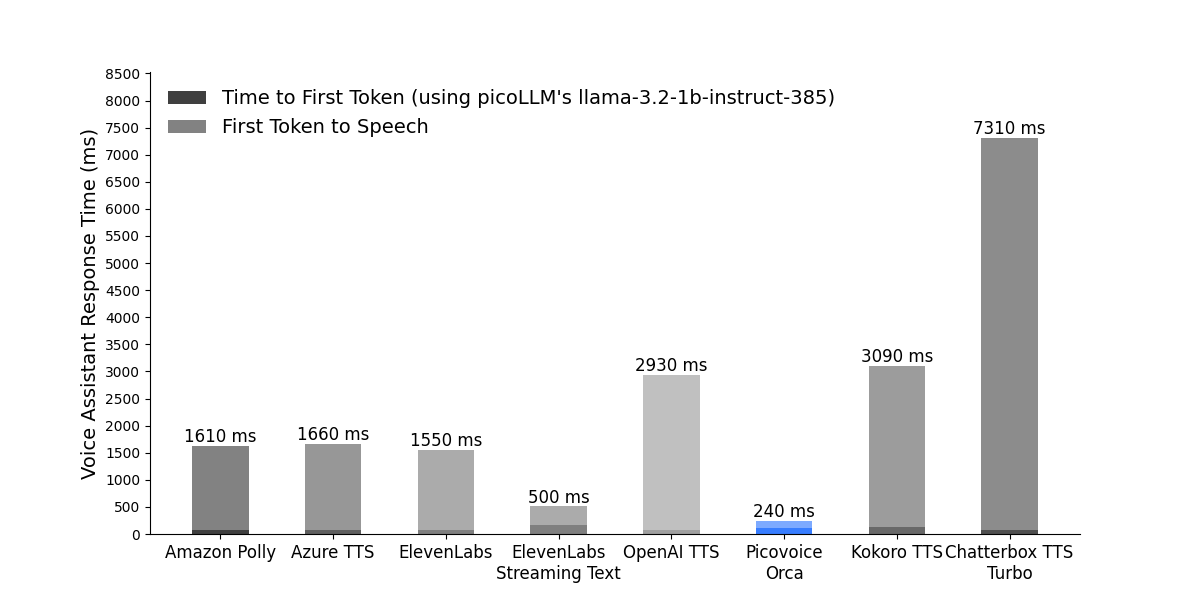
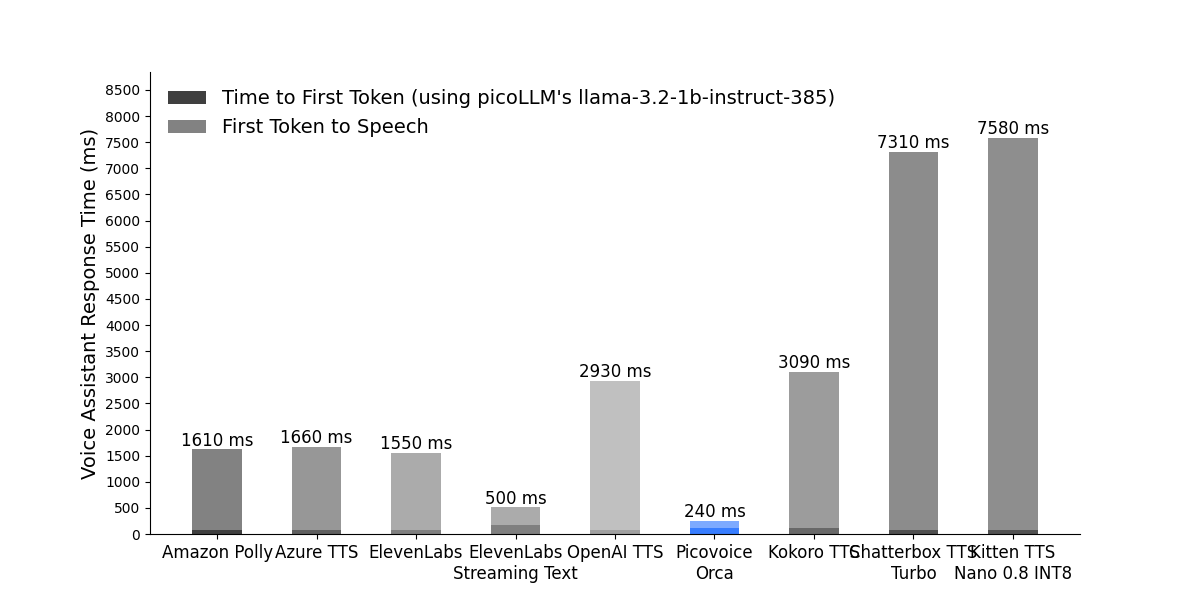
Added Kitten-TTS to latency benchmark.

Changed region(s): [[0.1233, 0.18, 0.8942, 0.99], [0.0925, 0.12, 0.1233, 0.81], [0.0925, 0.84, 0.1233, 0.87]]

diff --git a/benchmark.py b/benchmark.py
@@ -262,26 +262,31 @@ async def _run_benchmark_iteration(
 
     timer.wait_for_first_audio()
 
-    timing_result = TimingResult(
-        voice_assistant_response_time=timer.voice_assistant_response_time(),
-        time_to_first_token=timer.time_to_first_token(),
-        first_token_to_speech=timer.first_token_to_speech(),
-        tts_process_seconds=timer.tts_process_seconds(),
-        num_words=len(llm.last_response.split()),
-        num_tokens_per_second=timer.num_tokens_per_second())
-    stats.accumulate(timing_result=timing_result)
+    if not timer.skip_this_result:
+        timing_result = TimingResult(
+            voice_assistant_response_time=timer.voice_assistant_response_time(),
+            time_to_first_token=timer.time_to_first_token(),
+            first_token_to_speech=timer.first_token_to_speech(),
+            tts_process_seconds=timer.tts_process_seconds(),
+            num_words=len(llm.last_response.split()),
+            num_tokens_per_second=timer.num_tokens_per_second())
+        stats.accumulate(timing_result=timing_result)
 
-    if verbose:
-        print(f"Question: {sentence}")
-        print(f"LLM response: {llm.last_response}")
-        print(f"Voice Assistant Response Time: {timing_result.voice_assistant_response_time:.2f} s")
-        print(f"Time to First Token: {timing_result.time_to_first_token:.2f} s")
-        print(f"First Token to Speech: {timing_result.first_token_to_speech:.2f} s")
-        timer.wait_for_last_audio()
-        audio_path = os.path.join(results_folder, f"audio_{counter}.wav")
-        synthesizer.save_and_reset_last_audio(audio_path)
-        print(f"Saved audio to `{audio_path}`")
-        print()
+        if verbose:
+            print(f"Question: {sentence}")
+            print(f"LLM response: {llm.last_response}")
+            print(f"Voice Assistant Response Time: {timing_result.voice_assistant_response_time:.2f} s")
+            print(f"Time to First Token: {timing_result.time_to_first_token:.2f} s")
+            print(f"First Token to Speech: {timing_result.first_token_to_speech:.2f} s")
+            timer.wait_for_last_audio()
+            audio_path = os.path.join(results_folder, f"audio_{counter}.wav")
+            synthesizer.save_and_reset_last_audio(audio_path)
+            print(f"Saved audio to `{audio_path}`")
+            print()
+    else:
+        if verbose:
+            print("Error occurred for this sentence. Skip the result.")
+
 
 
 async def main(args: argparse.Namespace) -> None:

diff --git a/tts/_tts.py b/tts/_tts.py
@@ -35,6 +35,7 @@ class Synthesizers(Enum):
     PICOVOICE_ORCA = "picovoice_orca"
     KOKORO_TTS = "kokoro_tts"
     CHATTERBOX_TTS_TURBO = "chatterbox_tts_turbo"  # TODO (Ted): Ask Ali if we should do Chatterbox-TTS or Chatterbox-TTS-Turbo.
+    KITTEN_TTS = "kitten_tts"
 
 
 class Synthesizer:
@@ -93,6 +94,7 @@ class Synthesizer:
             Synthesizers.PICOVOICE_ORCA: PicovoiceOrcaSynthesizer,
             Synthesizers.KOKORO_TTS: KokoroSynthesizer,
             Synthesizers.CHATTERBOX_TTS_TURBO: ChatterboxTurboSynthesizer,
+            Synthesizers.KITTEN_TTS: KittenSynthesizer,
         }
 
         if engine not in subclasses:
@@ -573,6 +575,58 @@ class ChatterboxTurboSynthesizer(Synthesizer):
         self._timer.maybe_log_time_first_audio()
 
         self._audio_sink.add(data=wav)  # TODO (Ted): Check if data=audio is desired.
+
+        self._timer.log_time_last_audio()
+
+    def __str__(self) -> str:
+        return f"{self.NAME}"
+
+
+class KittenSynthesizer(Synthesizer):
+    NAME = "Kitten TTS Nano 0.8 INT8"
+    SAMPLE_RATE = 24000
+    AUDIO_ENCODING = AudioEncodings.INT16  # TODO (Ted): Check this. It's likely wrong.
+    VOICE_ID = "Bella"  # available_voices : ['Bella', 'Jasper', 'Luna', 'Bruno', 'Rosie', 'Hugo', 'Kiki', 'Leo']
+
+    def __init__(
+            self,
+            **kwargs: Any,
+    ) -> None:
+        super().__init__(
+                sample_rate=self.SAMPLE_RATE,
+                audio_encoding=self.AUDIO_ENCODING,
+                **kwargs,
+        )
+
+        from kittentts import KittenTTS
+
+        self._model = KittenTTS("KittenML/kitten-tts-nano-0.8-int8")
+
+    def synthesize(
+            self,
+            text_stream: Generator[
+                str,
+                None,
+                None,
+            ],
+    ):
+        text = self._read_text_stream(text_stream)
+
+        if len(text) >= 400:
+            self._timer.skip_this_result = True
+            print("Text input length reached or exceeded 400! Which is a limit for Kitten-TTS. Skipping this sentence.")
+            return
+
+        self._timer.maybe_log_time_first_synthesis_request()
+
+        audio = self._model.generate(
+                text,
+                voice=self.VOICE_ID,
+        )
+
+        self._timer.maybe_log_time_first_audio()
+
+        self._audio_sink.add(data=audio)  # TODO (Ted): Check if data=audio is desired.
 
         self._timer.log_time_last_audio()
 

diff --git a/tts/_timer.py b/tts/_timer.py
@@ -12,6 +12,7 @@ class Timer:
     _time_last_audio: float = -1.0
 
     _num_tokens: int = 0
+    _skip_this_result: bool = False
 
     @staticmethod
     def _get_time() -> float:
@@ -67,7 +68,7 @@ class Timer:
         return self._num_tokens / (self._time_last_llm_token - self._time_first_llm_token)
 
     def wait_for_first_audio(self) -> None:
-        while self._time_first_audio == -1.0:
+        while self._time_first_audio == -1.0 and not self._skip_this_result:
             time.sleep(0.01)
 
     def wait_for_last_audio(self) -> None:
@@ -83,6 +84,18 @@ class Timer:
         self._time_last_audio = -1.0
 
         self._num_tokens = 0
+        self._skip_this_result = False
+
+    @property
+    def skip_this_result(self) -> bool:
+        return self._skip_this_result
+
+    @skip_this_result.setter
+    def skip_this_result(
+            self,
+            val: bool,
+    ):
+        self._skip_this_result = val
 
 
 __all__ = [

diff --git a/plot_results.py b/plot_results.py
@@ -31,6 +31,7 @@ WHITE = rgb_from_hex("#FFFFFF")
 BLUE = rgb_from_hex("#377DFF")
 COLOR_KOKORO_TTS = rgb_from_hex("#686868")
 COLOR_CHATTERBOX_TTS_TURBO = rgb_from_hex("#4F4F4F")
+COLOR_KITTEN_TTS = rgb_from_hex("#515151")
 
 ENGINE_PRINT_NAMES = {
     Synthesizers.AMAZON_POLLY: 'Amazon Polly',
@@ -41,6 +42,7 @@ ENGINE_PRINT_NAMES = {
     Synthesizers.PICOVOICE_ORCA: 'Picovoice\nOrca',
     Synthesizers.KOKORO_TTS: "Kokoro TTS",
     Synthesizers.CHATTERBOX_TTS_TURBO: "Chatterbox TTS\nTurbo",
+    Synthesizers.KITTEN_TTS: "Kitten TTS\nNano 0.8 INT8",
 }
 
 ENGINE_COLORS = {
@@ -52,6 +54,7 @@ ENGINE_COLORS = {
     Synthesizers.PICOVOICE_ORCA: BLUE,
     Synthesizers.KOKORO_TTS: COLOR_KOKORO_TTS,
     Synthesizers.CHATTERBOX_TTS_TURBO: COLOR_CHATTERBOX_TTS_TURBO,
+    Synthesizers.KITTEN_TTS: COLOR_KITTEN_TTS,
 }
 
 
